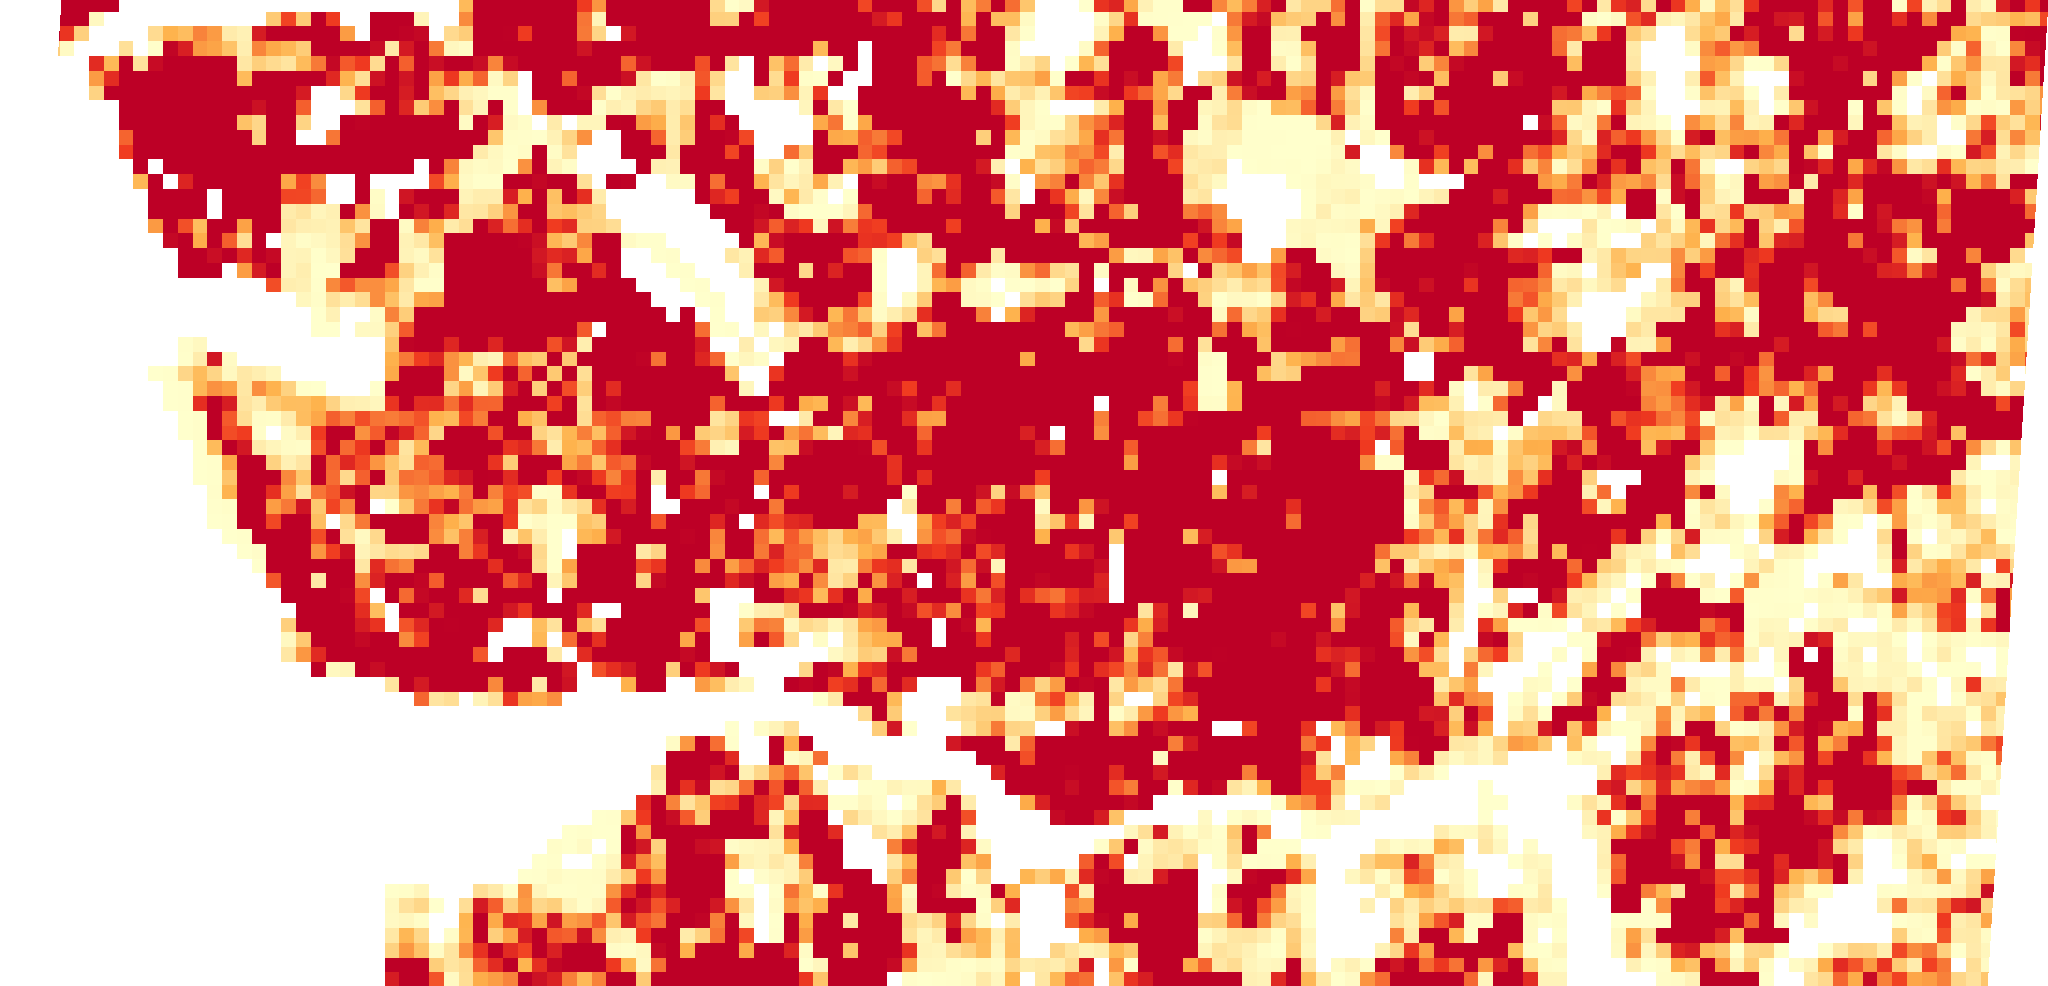
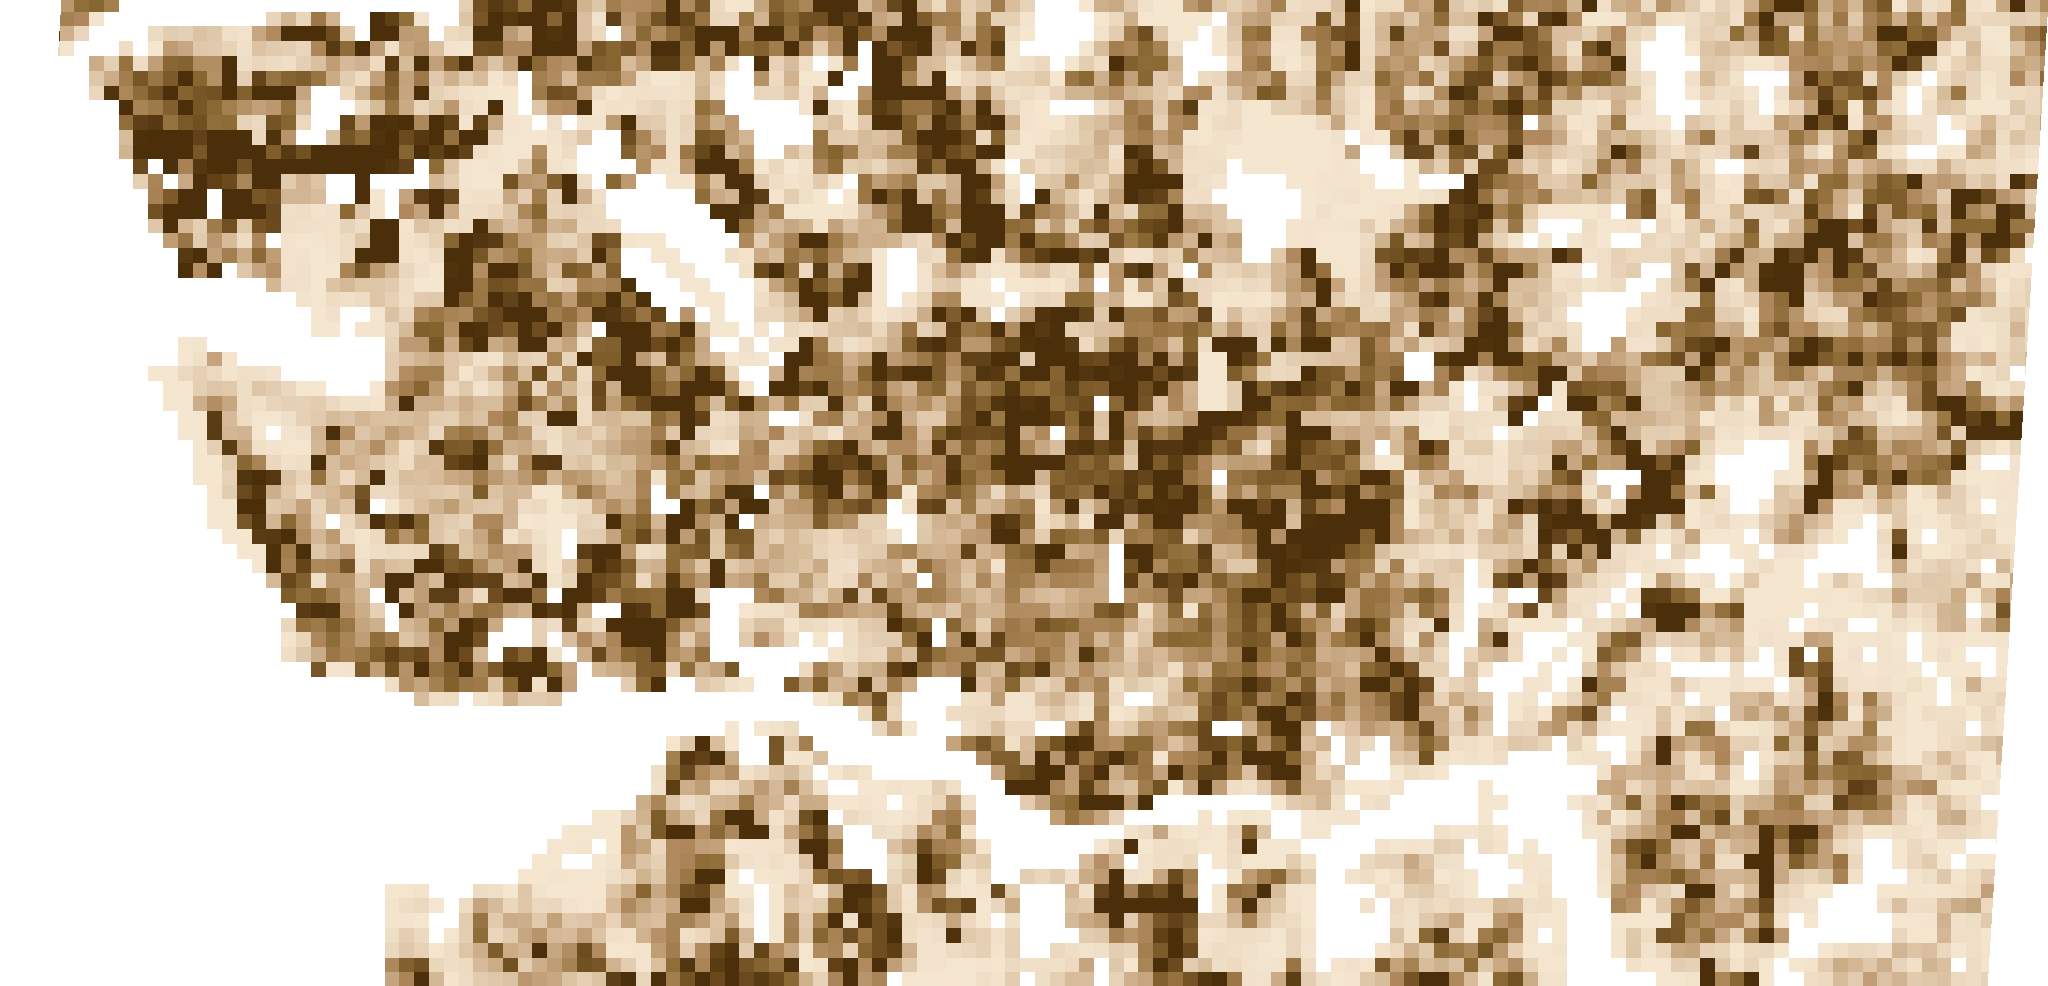
GHS-POP paleta castanha (0-150 hab), legenda com toggle
Paleta de castanho claro a escuro para realçar zonas densas.
Max aumentado de 50 para 150. Legenda com gradiente aparece/
desaparece com o checkbox da camada.

diff --git a/interiores_quarteiroes.py b/interiores_quarteiroes.py
@@ -184,7 +184,7 @@ print('A preparar camada de densidade populacional (GHS-POP)...')
 ghspop = ee.Image('JRC/GHSL/P2023A/GHS_POP/2020').select('population_count').clip(porto)
 # Visualizar com paleta quente (transparente onde pop=0)
 ghspop_vis = ghspop.updateMask(ghspop.gt(0)).visualize(
-    min=0, max=50, palette=['#ffffcc', '#feb24c', '#f03b20', '#bd0026']
+    min=0, max=150, palette=['#f5e6d0', '#d4b896', '#b08a5e', '#8b6934', '#6b4a1e', '#4a2f0a']
 )
 
 print('Classificacao concluida.')
@@ -574,6 +574,14 @@ html = f'''<!DOCTYPE html>
   <hr style="border-color:#ddd;margin:10px 0 6px 0;">
   <div class="section">Contexto</div>
   <div id="bg-rows"></div>
+  <div id="pop-legend" style="display:none;margin:4px 0 0 22px;">
+    <div style="font-size:10px;color:#888;margin-bottom:2px;">hab/pixel (100m)</div>
+    <div style="display:flex;align-items:center;gap:4px;">
+      <span style="font-size:9px;color:#888;">0</span>
+      <div style="width:120px;height:10px;border-radius:3px;background:linear-gradient(to right,#f5e6d0,#d4b896,#b08a5e,#8b6934,#6b4a1e,#4a2f0a);"></div>
+      <span style="font-size:9px;color:#888;">150+</span>
+    </div>
+  </div>
 
   <hr style="border-color:#ddd;margin:10px 0 6px 0;">
   <div class="section">Fundo</div>
@@ -644,8 +652,8 @@ async function init() {{
   var bgCb = document.createElement('input');
   bgCb.type = 'checkbox'; bgCb.checked = bgLayer.show;
   bgCb.addEventListener('change', function() {{
-    if (this.checked) bgOverlay.addTo(map);
-    else map.removeLayer(bgOverlay);
+    if (this.checked) {{ bgOverlay.addTo(map); document.getElementById('pop-legend').style.display='block'; }}
+    else {{ map.removeLayer(bgOverlay); document.getElementById('pop-legend').style.display='none'; }}
   }});
   var bgLb = document.createElement('label');
   bgLb.textContent = bgLayer.label;
